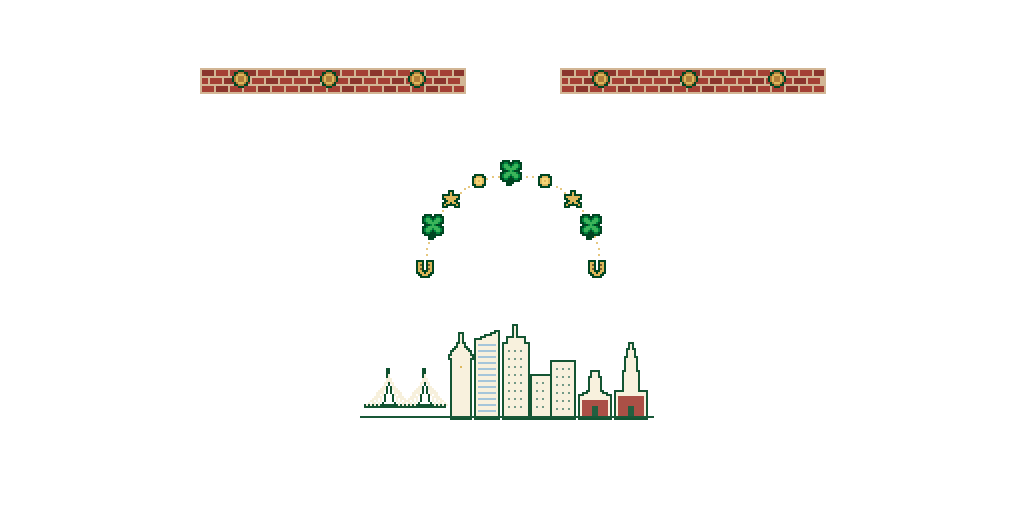
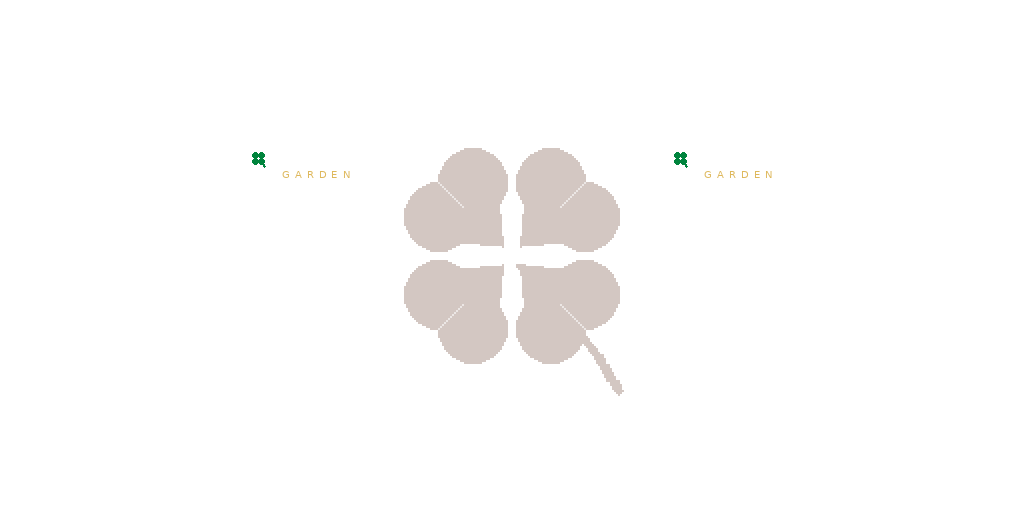
Redesign the Boston Charms court as a minimal, clean floor
Replace the Freedom Trail bricks, charm arch and skyline with a single
big faint four-leaf clover stained behind the logo, a minimal fictional
arena sponsor (Keston Garden) at two spots, and #FEELINGLUCKY on the
near apron.

Claude-Session: https://claude.ai/code/session_019xdidrNboBfdBqy3KgEpk9

diff --git a/hoopland/make_charms_overlay.py b/hoopland/make_charms_overlay.py
@@ -1,146 +1,81 @@
-"""Generate the Boston Charms court overlay for Hoop Land (1024x512 transparent PNG)."""
+"""Generate the Boston Charms court overlay for Hoop Land (1024x512 transparent PNG).
+
+A minimal, clean floor: a big faint four-leaf clover stained into the
+parquet behind the logo, a minimal fictional arena sponsor ("Keston
+Garden") at two spots, and a hashtag on the near apron.
+"""
 from court_template import COURT
-from PIL import Image, ImageDraw, ImageFilter
+from PIL import Image, ImageDraw, ImageFont
 import math, os
 
 W, H = 1024, 512
 LW, LH = W // 2, H // 2  # pixel-art layer, upscaled 2x
+STAIN = (96, 52, 34)
 GREEN = (0, 132, 61)
-DARK = (0, 70, 34)
 GOLD = (222, 184, 92)
-TAN = (214, 186, 132)
-CREAM = (246, 238, 214)
-BRICK = (158, 52, 40)
-BRICK2 = (132, 40, 32)
-MORTAR = (206, 176, 140)
-BRONZE = (176, 126, 58)
+WHITE = (255, 255, 255)
 HERE = os.path.dirname(os.path.abspath(__file__))
 LEFT, TOP, RIGHT, BOTTOM = (v // 2 for v in COURT)   # court edges on the 2x pixel grid
 CX, CY = (LEFT + RIGHT) // 2, (TOP + BOTTOM) // 2
-SCORER = (234, 278)                                   # scorer's table gap on the far apron
+SANS = "/usr/share/fonts/truetype/dejavu/DejaVuSans-Bold.ttf"
+SANS_LIGHT = "/usr/share/fonts/truetype/dejavu/DejaVuSans.ttf"
 
-img = Image.new("RGBA", (LW, LH), (0, 0, 0, 0))
+# ---------- big faint four-leaf clover behind the logo ----------
+clover = Image.new("L", (LW, LH), 0)
+c = ImageDraw.Draw(clover)
+for deg in (45, 135, 225, 315):                          # each leaf: two lobes and a point toward the center
+    a = math.radians(deg)
+    ux, uy = math.cos(a), math.sin(a)
+    px, py = -uy, ux
+    for side in (-1, 1):
+        lx, ly = CX + ux * 40 + px * side * 12, CY + uy * 40 + py * side * 12
+        c.ellipse([lx - 17, ly - 17, lx + 17, ly + 17], fill=255)
+    c.polygon([(CX + ux * 6, CY + uy * 6),
+               (CX + ux * 40 + px * 28, CY + uy * 40 + py * 28),
+               (CX + ux * 40 - px * 28, CY + uy * 40 - py * 28)], fill=255)
+stem = [(CX + 4 + t * 0.8, CY + 4 + t + 3 * math.sin(t / 9)) for t in range(0, 64)]   # curling stem
+c.line(stem, fill=255, width=5)
+veins = Image.new("L", (LW, LH), 0)                       # a lighter vein down the middle of each leaf
+v = ImageDraw.Draw(veins)
+for deg in (45, 135, 225, 315):
+    a = math.radians(deg)
+    v.line([(CX + math.cos(a) * 34, CY + math.sin(a) * 34), (CX + math.cos(a) * 66, CY + math.sin(a) * 66)], fill=255, width=1)
+layer = Image.new("RGBA", (LW, LH), (0, 0, 0, 0))
+layer.paste(STAIN + (70,), (0, 0), clover)
+layer.paste(STAIN + (30,), (0, 0), Image.composite(veins, Image.new("L", (LW, LH), 0), clover))
+img = layer.resize((W, H), Image.NEAREST)
+
+# ---------- Keston Garden: minimal fictional arena sponsor ----------
 d = ImageDraw.Draw(img)
+word_font, sub_font = ImageFont.truetype(SANS, 14), ImageFont.truetype(SANS_LIGHT, 10)
 
-# ---------- Freedom Trail bricks along the far apron ----------
-TRAIL_TOP, ROWS, BH = TOP - 14, 3, 3
-for x0, x1 in ((LEFT + 4, SCORER[0] - 2), (SCORER[1] + 2, RIGHT - 4)):
-    d.rectangle([x0, TRAIL_TOP, x1, TRAIL_TOP + ROWS * (BH + 1)], fill=MORTAR + (235,))
-    for r in range(ROWS):
-        y = TRAIL_TOP + 1 + r * (BH + 1)
-        offset = 3 if r % 2 else 0
-        for i, x in enumerate(range(x0 + 1 - offset, x1, 7)):
-            a, b = max(x, x0 + 1), min(x + 5, x1 - 1)
-            if a < b:
-                d.rectangle([a, y, b, y + BH - 1], fill=(BRICK if (i + r) % 3 else BRICK2) + (240,))
-    for mx in range(x0 + 20, x1 - 10, 44):              # bronze trail medallions
-        d.ellipse([mx - 4, TRAIL_TOP + 1, mx + 4, TRAIL_TOP + 9], fill=BRONZE + (255,), outline=DARK + (255,))
-        d.ellipse([mx - 2, TRAIL_TOP + 3, mx + 2, TRAIL_TOP + 7], outline=GOLD + (255,))
+def spaced(x, y, text, font, fill, spacing):
+    for ch in text:
+        d.text((x, y), ch, font=font, fill=fill)
+        x += d.textlength(ch, font=font) + spacing
 
-# ---------- lucky horseshoe arch of charms over the logo ----------
-def sprite(rows, palette):
-    s = Image.new("RGBA", (len(rows[0]), len(rows)), (0, 0, 0, 0))
-    for r, row in enumerate(rows):
-        for c, ch in enumerate(row):
-            if ch in palette:
-                s.putpixel((c, r), palette[ch] + (255,))
-    a = s.getchannel("A")
-    ring = Image.new("RGBA", (s.width + 2, s.height + 2), DARK + (255,))
-    ring.putalpha(Image.new("L", ring.size, 0))
-    big = Image.new("L", ring.size, 0)
-    big.paste(a, (1, 1))
-    ring.putalpha(big.filter(ImageFilter.MaxFilter(3)))
-    ring.alpha_composite(s, (1, 1))
-    return ring
+def width(text, font, spacing):
+    return sum(d.textlength(ch, font=font) for ch in text) + spacing * (len(text) - 1)
 
-CLOVER = sprite((".gg...gg.",
-                 "gGGg.gGGg",
-                 "gGGGgGGGg",
-                 ".gGGGGGg.",
-                 "...gGg...",
-                 ".gGGGGGg.",
-                 "gGGGgGGGg",
-                 "gGGg#gGGg",
-                 ".gg.#.gg.",
-                 "....#....",
-                 "...#....."),
-                {"g": GREEN, "G": (60, 180, 90), "#": DARK})
-SHOE = sprite(("yy...yy", "yo...oy", "yy...yy", "yo...oy", "yy...yy", ".yy.yy.", "..yyy.."),
-              {"y": GOLD, "o": (120, 90, 40)})
-STAR = sprite(("...y...", "...y...", "yyyyyyy", ".yyyyy.", "..yyy..", ".yy.yy.", "y.....y"),
-              {"y": GOLD})
-COIN = sprite((".yyy.", "yYYYy", "yYyYy", "yYYYy", ".yyy."), {"y": GOLD, "Y": (246, 214, 120)})
+def sponsor(cx, cy):
+    word_w = width("KESTON", word_font, 3)
+    total = 20 + word_w
+    x = cx - total / 2
+    mx, my = x + 7, cy - 2
+    for ox, oy in ((-3, -3), (3, -3), (-3, 3), (3, 3)):   # a tiny four-leaf clover
+        d.ellipse([mx + ox - 3, my + oy - 3, mx + ox + 3, my + oy + 3], fill=GREEN + (255,))
+    d.line([(mx + 2, my + 2), (mx + 6, my + 8)], fill=GREEN + (255,), width=2)
+    spaced(x + 20, cy - 10, "KESTON", word_font, WHITE + (255,), 3)
+    sub_w = width("GARDEN", sub_font, 5)
+    spaced(x + total - sub_w, cy + 8, "GARDEN", sub_font, GOLD + (255,), 5)
 
-R = 43
-for t in range(0, 181, 4):                               # dotted gold arch
-    a = math.radians(180 + t)
-    d.point((round(CX + R * math.cos(a)), round(CY + 2 + R * math.sin(a))), fill=GOLD + (200,))
-CHARMS = (SHOE, CLOVER, STAR, COIN, CLOVER, COIN, STAR, CLOVER, SHOE)
-for k, charm in enumerate(CHARMS):
-    a = math.radians(180 + k * 180 / (len(CHARMS) - 1))
-    x, y = CX + R * math.cos(a), CY + 2 + R * math.sin(a)
-    if k in (0, len(CHARMS) - 1):
-        y += 4                                            # horseshoe ends sit a touch lower
-    img.alpha_composite(charm, (round(x - charm.width / 2), round(y - charm.height / 2)))
-d = ImageDraw.Draw(img)
+court_w, court_h = COURT[2] - COURT[0], COURT[3] - COURT[1]
+sponsor(COURT[0] + 0.17 * court_w, COURT[1] + 0.2 * court_h)
+sponsor(COURT[0] + 0.83 * court_w, COURT[1] + 0.2 * court_h)
 
-# ---------- Boston skyline along the near sideline ----------
-BASE = BOTTOM
-mask = Image.new("L", (LW, LH), 0)
-m = ImageDraw.Draw(mask)
-# Custom House Tower: clock tower with a pyramid cap
-m.rectangle([226, BASE - 30, 234, BASE], fill=255)
-m.polygon([(225, BASE - 30), (230, BASE - 37), (235, BASE - 30)], fill=255)
-m.line([(230, BASE - 41), (230, BASE - 37)], fill=255)
-# Hancock Tower: slim slab with a slanted top
-m.polygon([(238, BASE), (238, BASE - 38), (248, BASE - 42), (248, BASE)], fill=255)
-# Prudential: tall block with crown and mast
-m.rectangle([252, BASE - 36, 263, BASE], fill=255)
-m.rectangle([254, BASE - 39, 261, BASE - 36], fill=255)
-m.line([(257, BASE - 45), (257, BASE - 39)], fill=255)
-m.rectangle([266, BASE - 20, 274, BASE], fill=255)
-m.rectangle([276, BASE - 27, 286, BASE], fill=255)
-# Old State House: little brick hall with a stepped steeple
-m.rectangle([290, BASE - 10, 304, BASE], fill=255)
-m.polygon([(290, BASE - 10), (297, BASE - 14), (304, BASE - 10)], fill=255)
-m.rectangle([295, BASE - 19, 299, BASE - 14], fill=255)
-m.rectangle([296, BASE - 22, 298, BASE - 19], fill=255)
-# Old North Church: tall steeple
-m.rectangle([308, BASE - 12, 322, BASE], fill=255)
-m.rectangle([312, BASE - 22, 318, BASE - 12], fill=255)
-m.rectangle([313, BASE - 27, 317, BASE - 22], fill=255)
-m.polygon([(313, BASE - 27), (315, BASE - 36), (317, BASE - 27)], fill=255)
+# ---------- hashtag on the near apron ----------
+tag_font = ImageFont.truetype(SANS, 16)
+d.text(((COURT[0] + COURT[2]) / 2, COURT[3] + 30), "#FEELINGLUCKY", font=tag_font, fill=WHITE + (255,), anchor="mm")
 
-sky = Image.new("RGBA", (LW, LH), (0, 0, 0, 0))
-sky.paste(CREAM + (210,), (0, 0), mask)
-edge = Image.composite(Image.new("L", mask.size, 0), mask.filter(ImageFilter.MaxFilter(3)), mask)
-sky.paste(DARK + (235,), (0, 0), edge)
-img.alpha_composite(sky)
-d = ImageDraw.Draw(img)
-for x0, x1, top in ((252, 263, BASE - 33), (266, 274, BASE - 17), (276, 286, BASE - 24)):   # windows
-    for wy in range(top, BASE - 2, 4):
-        for wx in range(x0 + 2, x1 - 1, 3):
-            d.point((wx, wy), fill=DARK + (140,))
-for y in range(BASE - 36, BASE - 2, 3):                   # Hancock's glass bands
-    d.line([(239, y), (247, y)], fill=(120, 170, 200, 170))
-d.point((230, BASE - 25), fill=GOLD + (255,))             # Custom House clock
-d.rectangle([291, BASE - 8, 303, BASE - 1], fill=BRICK + (220,))
-d.rectangle([309, BASE - 10, 321, BASE - 1], fill=BRICK + (220,))
-for x in (297, 315):
-    d.rectangle([x - 1, BASE - 5, x + 1, BASE - 1], fill=DARK + (220,))
-
-# Leonard P. Zakim Bridge: two inverted-Y towers with fanned cables
-DECK = BASE - 6
-d.rectangle([182, DECK, 222, DECK + 1], fill=DARK + (235,))
-for tx in (194, 212):
-    top = BASE - 24
-    d.line([(tx - 3, DECK), (tx, top + 6)], fill=DARK + (240,), width=1)
-    d.line([(tx + 3, DECK), (tx, top + 6)], fill=DARK + (240,), width=1)
-    d.line([(tx, top + 6), (tx, top)], fill=DARK + (240,), width=2)
-    for k in range(1, 5):
-        d.line([(tx, top + 2 + k), (tx - 3 - k * 2, DECK)], fill=CREAM + (220,))
-        d.line([(tx, top + 2 + k), (tx + 3 + k * 2, DECK)], fill=CREAM + (220,))
-d.line([(180, BASE), (326, BASE)], fill=DARK + (230,))
-
-img.resize((W, H), Image.NEAREST).save(os.path.join(HERE, "boston-charms-overlay.png"))
+img.save(os.path.join(HERE, "boston-charms-overlay.png"))
 print("saved")
